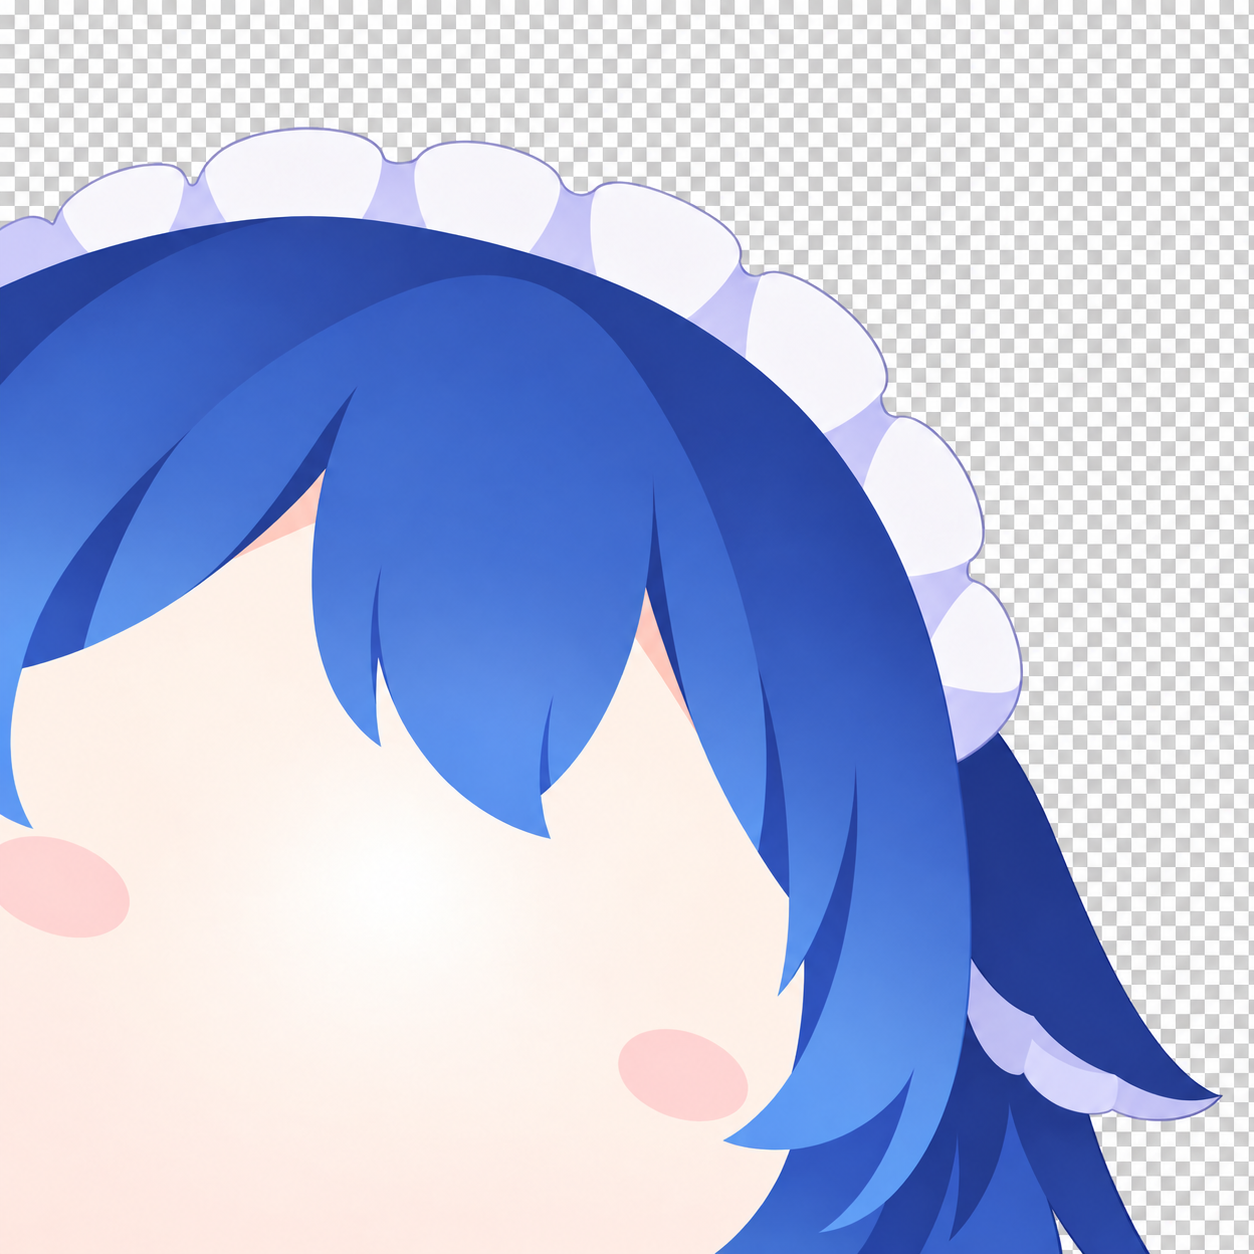
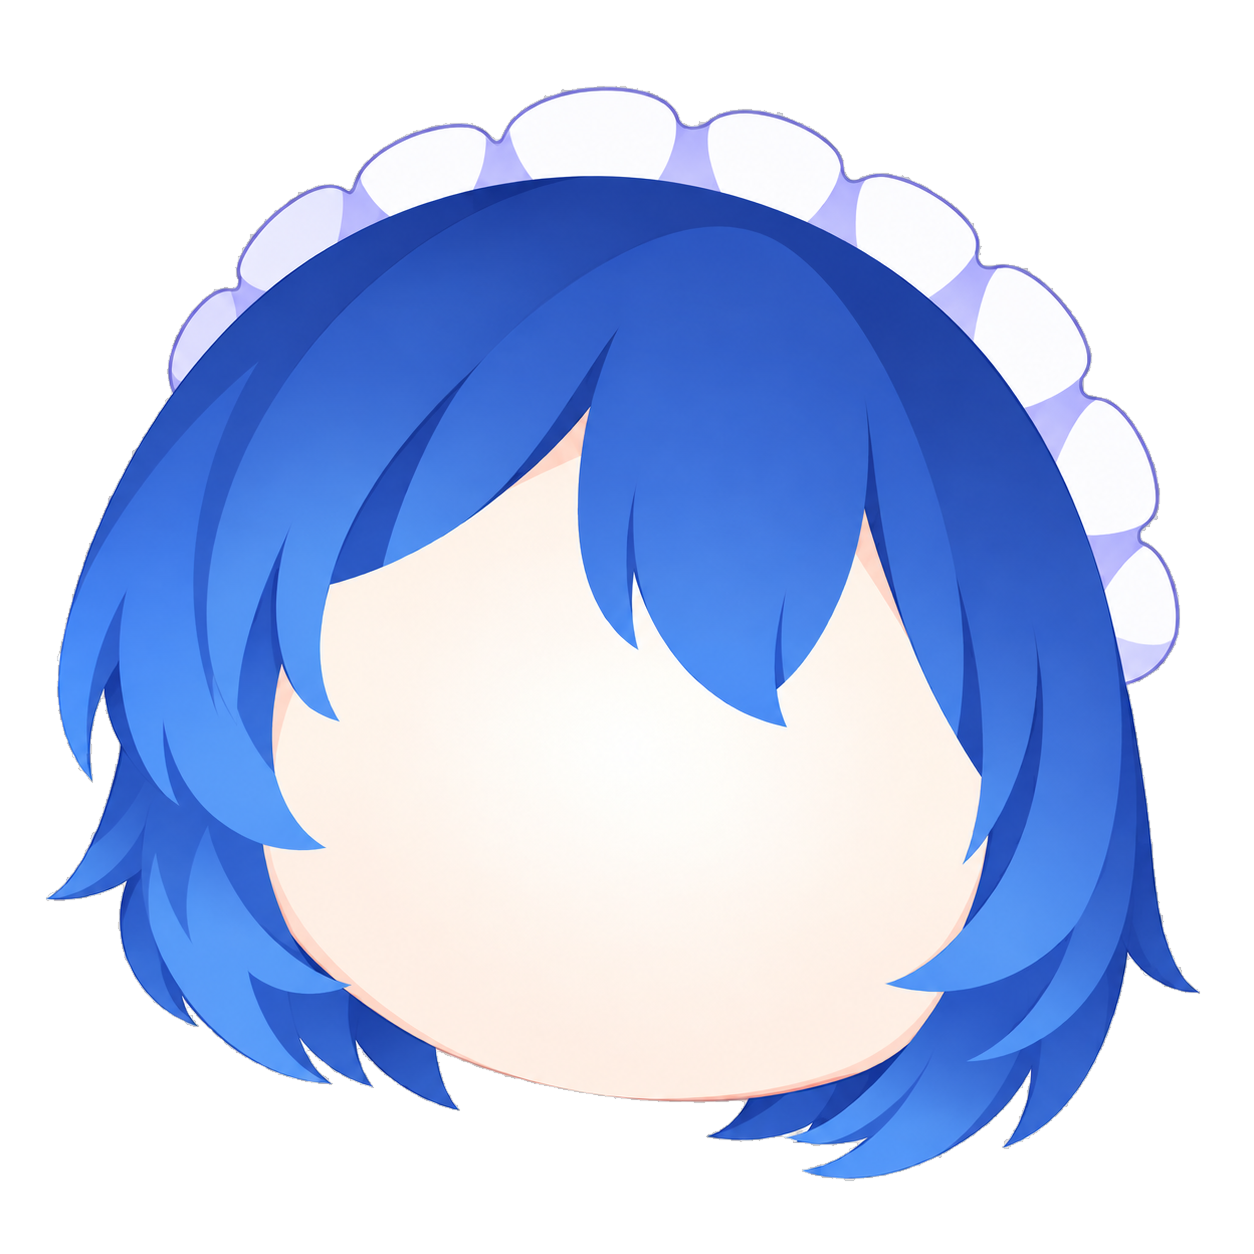
Mascot v2: layered head and accessories
The puppet is drawn from head-v2.png plus accessories-v2.png sliced by SVG
clip paths (ears, tuft, bow), with eyes and blush inline, so parts can be
posed independently. Design source lands under docs/mascot-design/.

diff --git a/public/mascot.js b/public/mascot.js
@@ -6,18 +6,25 @@
     <button class="mascot-puppet" type="button" aria-label="互动看板娘">
       <svg viewBox="0 0 1254 1254" aria-hidden="true">
         <defs>
-          <mask id="mascot-base-mask" maskUnits="userSpaceOnUse" x="0" y="0" width="1254" height="1254"><path d="M0 229Q35 207 55 227Q68 191 115 173Q180 154 188 181Q193 190 202 166Q244 124 312 130Q379 130 384 154Q390 168 412 163Q429 134 476 144Q543 145 561 184Q577 205 595 188Q615 175 657 195Q716 216 739 250Q743 280 764 274Q785 264 822 291Q873 329 886 371Q890 392 879 401Q872 413 896 420Q917 411 941 447Q974 497 982 533Q987 558 962 575Q975 571 993 602Q1028 655 1021 698Q1016 725 998 736C1064 835 1125 1057 1216 1095Q1174 1130 1114 1111Q1090 1120 1083 1112L1147 1254H0Z" fill="white" stroke="black" stroke-width="10" stroke-linejoin="round"/></mask>
+          <clipPath id="mascot-tuft"><rect x="420" y="20" width="400" height="280"/></clipPath>
+          <clipPath id="mascot-ear-left"><rect x="0" y="510" width="230" height="220"/></clipPath>
+          <clipPath id="mascot-bow"><path d="M1020 610H1185V720L1140 765Q1110 782 1088 717Q1070 740 1020 740Z"/></clipPath>
+          <clipPath id="mascot-ear-right"><path d="M1020 740Q1070 740 1088 717Q1110 782 1140 765L1185 720H1254V970H1020Z"/></clipPath>
           <linearGradient id="mascot-eye" x2="1" y2="1"><stop stop-color="#141a32"/><stop offset="1" stop-color="#242b49"/></linearGradient>
         </defs>
+        <g transform="translate(50 50) scale(.92)">
         <g data-part="head">
-          <image href="/mascot/base.png" width="1254" height="1254" mask="url(#mascot-base-mask)"/>
-          <g data-part="tuft"><image href="/mascot/tuft.svg" width="1254" height="1254"/></g>
-          <g data-part="bow"><image href="/mascot/bow.svg" width="1254" height="1254"/></g>
+          <image href="/mascot/head-v2.png" width="1254" height="1254"/>
+          <g data-part="ear-left"><image href="/mascot/accessories-v2.png" width="1254" height="1254" clip-path="url(#mascot-ear-left)"/></g>
+          <g data-part="ear-right"><image href="/mascot/accessories-v2.png" width="1254" height="1254" clip-path="url(#mascot-ear-right)"/></g>
+          <g data-part="tuft"><image href="/mascot/accessories-v2.png" width="1254" height="1254" clip-path="url(#mascot-tuft)"/></g>
+          <g data-part="bow"><image href="/mascot/accessories-v2.png" width="1254" height="1254" clip-path="url(#mascot-bow)"/></g>
           <g data-part="gaze">
-            <g transform="translate(206 760) rotate(18)"><g data-part="eye-left"><ellipse rx="61" ry="107" fill="url(#mascot-eye)"/><ellipse cx="-17" cy="-42" rx="10" ry="15" fill="white" opacity=".65"/></g><path data-part="lid-left" d="M-53 10Q0 -33 53 10" fill="none" stroke="#222940" stroke-width="13" stroke-linecap="round" opacity="0"/></g>
-            <g transform="translate(631 908) rotate(18)"><g data-part="eye-right"><ellipse rx="57" ry="103" fill="url(#mascot-eye)"/><ellipse cx="-17" cy="-42" rx="9" ry="14" fill="white" opacity=".65"/></g><path data-part="lid-right" d="M-50 10Q0 -32 50 10" fill="none" stroke="#222940" stroke-width="13" stroke-linecap="round" opacity="0"/></g>
+            <g transform="translate(464 655) rotate(20)"><g data-part="eye-left"><ellipse rx="46" ry="80" fill="url(#mascot-eye)"/></g><path data-part="lid-left" d="M-42 8Q0 -28 42 8" fill="none" stroke="#222940" stroke-width="11" stroke-linecap="round" opacity="0"/></g>
+            <g transform="translate(785 779) rotate(20)"><g data-part="eye-right"><ellipse rx="45" ry="80" fill="url(#mascot-eye)"/></g><path data-part="lid-right" d="M-41 8Q0 -27 41 8" fill="none" stroke="#222940" stroke-width="11" stroke-linecap="round" opacity="0"/></g>
           </g>
-          <g data-part="blush" opacity="0" fill="#f493ac"><ellipse cx="57" cy="892" rx="74" ry="36" transform="rotate(20 57 892)"/><ellipse cx="683" cy="1074" rx="68" ry="36" transform="rotate(20 683 1074)"/></g>
+          <g data-part="blush" opacity="0" fill="#f493ac"><ellipse cx="350" cy="745" rx="54" ry="34" transform="rotate(20 350 745)"/><ellipse cx="815" cy="908" rx="52" ry="34" transform="rotate(20 815 908)"/></g>
+        </g>
         </g>
       </svg>
     </button>`;
@@ -28,7 +35,7 @@
   let failed = false;
   let frame = 0, last = 0, clock = 0, nextBlink = 2 + Math.random() * 3;
   let blinkStart = -10, happyUntil = 0, bounce = 0;
-  let targetX = 0, targetY = 0, x = 0, y = 0, tuft = 0, velocity = 0, bow = 0, bowVelocity = 0;
+  let targetX = 0, targetY = 0, x = 0, y = 0, tuft = 0, velocity = 0, bow = 0, bowVelocity = 0, ear = 0, earVelocity = 0;
   let rect = host.getBoundingClientRect();
   const clamp = (n, lo, hi) => Math.max(lo, Math.min(hi, n));
   const active = () => !failed && !reduced.matches && !document.hidden;
@@ -36,7 +43,7 @@
   new ResizeObserver(refreshRect).observe(host);
   window.addEventListener('resize', refreshRect);
   function neutral() {
-    for (const name of ['head','tuft','bow','gaze','eye-left','eye-right']) parts[name].removeAttribute('transform');
+    for (const name of ['head','tuft','bow','ear-left','ear-right','gaze','eye-left','eye-right']) parts[name].removeAttribute('transform');
     for (const name of ['lid-left','lid-right','blush']) parts[name].setAttribute('opacity','0');
   }
   function sync() {
@@ -67,9 +74,9 @@
     const py = event.detail ? (event.clientY - rect.top) / rect.height : .4;
     happyUntil = clock + 1.15; bounce = 1;
     if (py < .3) velocity += 145;
-    else if (px > .73) bowVelocity += 155;
+    else if (px > .73) { bowVelocity += 155; earVelocity += 110; }
     else { velocity += 75; bowVelocity += 65; }
-    velocity = clamp(velocity,-180,180); bowVelocity = clamp(bowVelocity,-180,180);
+    velocity = clamp(velocity,-180,180); bowVelocity = clamp(bowVelocity,-180,180); earVelocity = clamp(earVelocity,-100,100);
   });
   function tick(now) {
     if (!active()) { frame = 0; return; }
@@ -81,11 +88,15 @@
     velocity += ((tuftTarget - tuft) * 65 - velocity * 9) * dt; tuft += velocity * dt;
     const bowTarget = -x * 5 + Math.sin(clock * 2.7 + 1) * 2.5;
     bowVelocity += ((bowTarget - bow) * 75 - bowVelocity * 10) * dt; bow += bowVelocity * dt;
+    const earTarget = -x * 4 + Math.sin(clock * 2.1 + .4) * 1.4;
+    earVelocity += ((earTarget - ear) * 58 - earVelocity * 9) * dt; ear += earVelocity * dt;
     bounce *= Math.exp(-dt * 4);
-    parts.head.setAttribute('transform', `translate(${x * 8} ${Math.sin(clock * 1.6) * 3 + y * 5 - bounce * 18}) rotate(${x * 2.4} 460 1080)`);
-    parts.tuft.setAttribute('transform', `rotate(${tuft} 472 272)`);
-    parts.bow.setAttribute('transform', `rotate(${bow} 1022 818)`);
-    parts.gaze.setAttribute('transform', `translate(${x * 19} ${y * 13})`);
+    parts.head.setAttribute('transform', `translate(${x * 8} ${Math.sin(clock * 1.6) * 3 + y * 5 - bounce * 18}) rotate(${x * 2.4} 627 1080)`);
+    parts.tuft.setAttribute('transform', `rotate(${clamp(tuft,-9,9)} 686 272)`);
+    parts.bow.setAttribute('transform', `rotate(${clamp(bow,-5,5)} 1090 714)`);
+    parts['ear-left'].setAttribute('transform', `rotate(${clamp(-ear,-3,3)} 181 575)`);
+    parts['ear-right'].setAttribute('transform', `rotate(${clamp(ear,-3,3)} 1088 746)`);
+    parts.gaze.setAttribute('transform', `translate(${x * 12} ${y * 9})`);
     if (clock >= nextBlink) { blinkStart = clock; nextBlink = clock + 2.6 + Math.random() * 4; }
     const blinkAge = clock - blinkStart;
     const blink = blinkAge < .19 ? 1 - Math.sin(blinkAge / .19 * Math.PI) * .97 : 1;
@@ -98,8 +109,10 @@
     frame = requestAnimationFrame(tick);
   }
   // If the layer fails to load, keep the original illustration instead of a partial face.
-  const base = new Image();
-  base.onerror = () => { failed = true; sync(); host.remove(); document.querySelector('.backdrop-character').style.display = 'block'; };
-  base.src = '/mascot/base.png';
+  for (const file of ['head-v2.png', 'accessories-v2.png']) {
+    const layer = new Image();
+    layer.onerror = () => { failed = true; sync(); host.remove(); document.querySelector('.backdrop-character').style.display = 'block'; };
+    layer.src = `/mascot/${file}`;
+  }
   sync();
 })();
